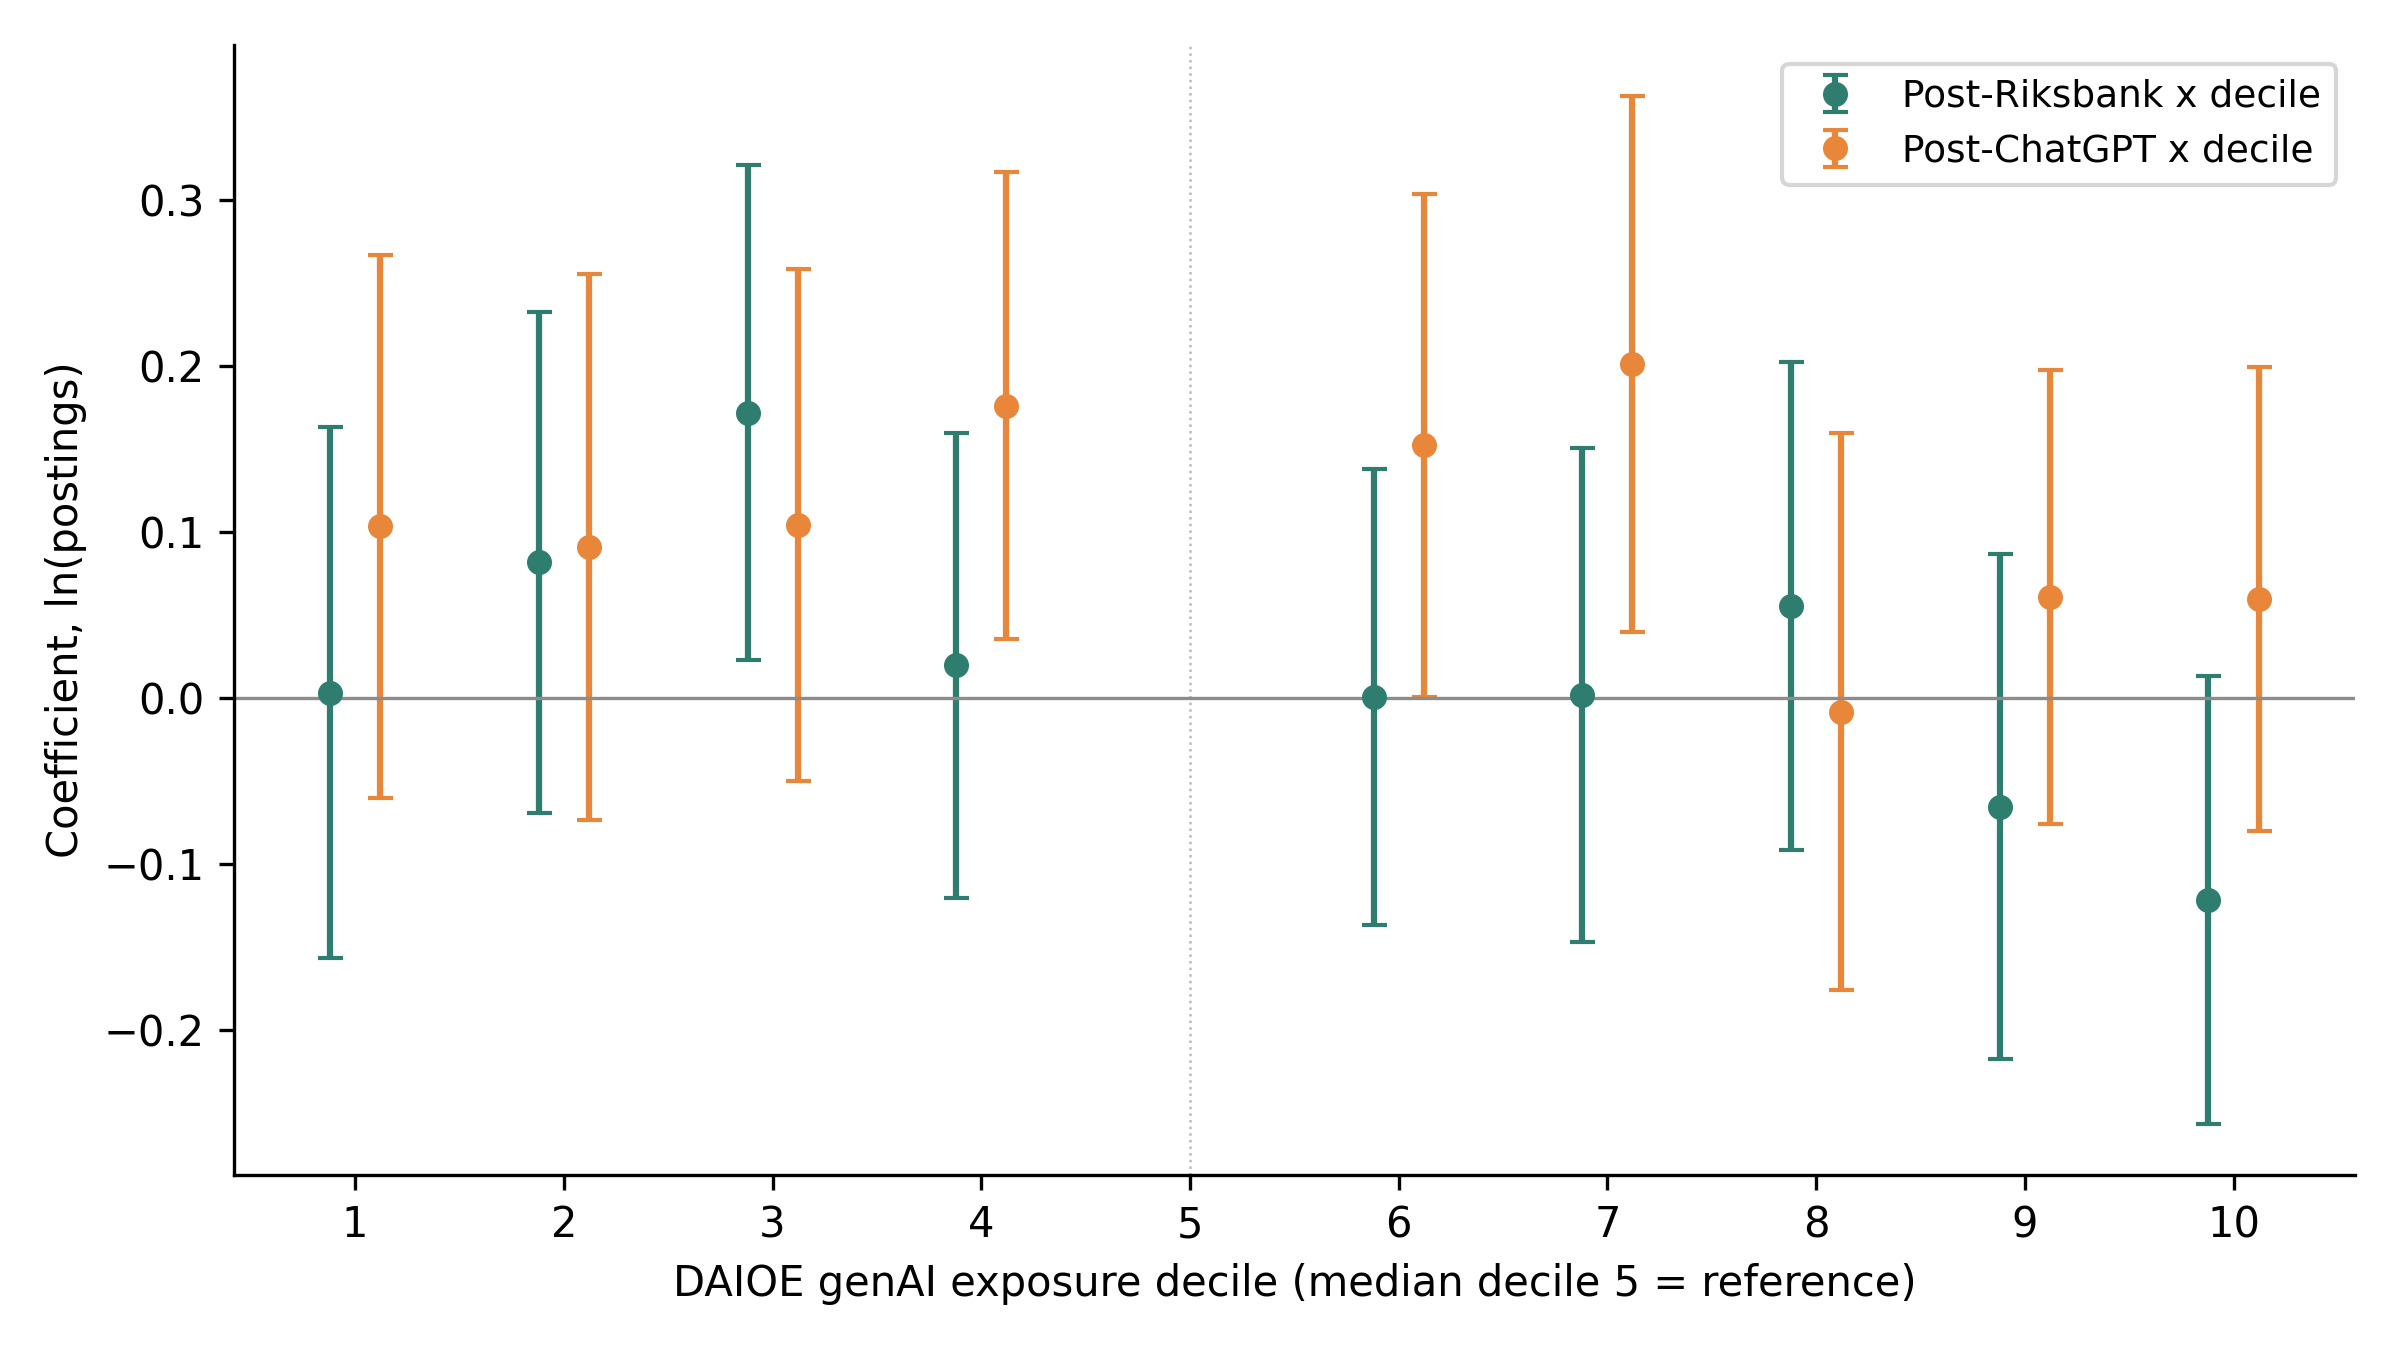
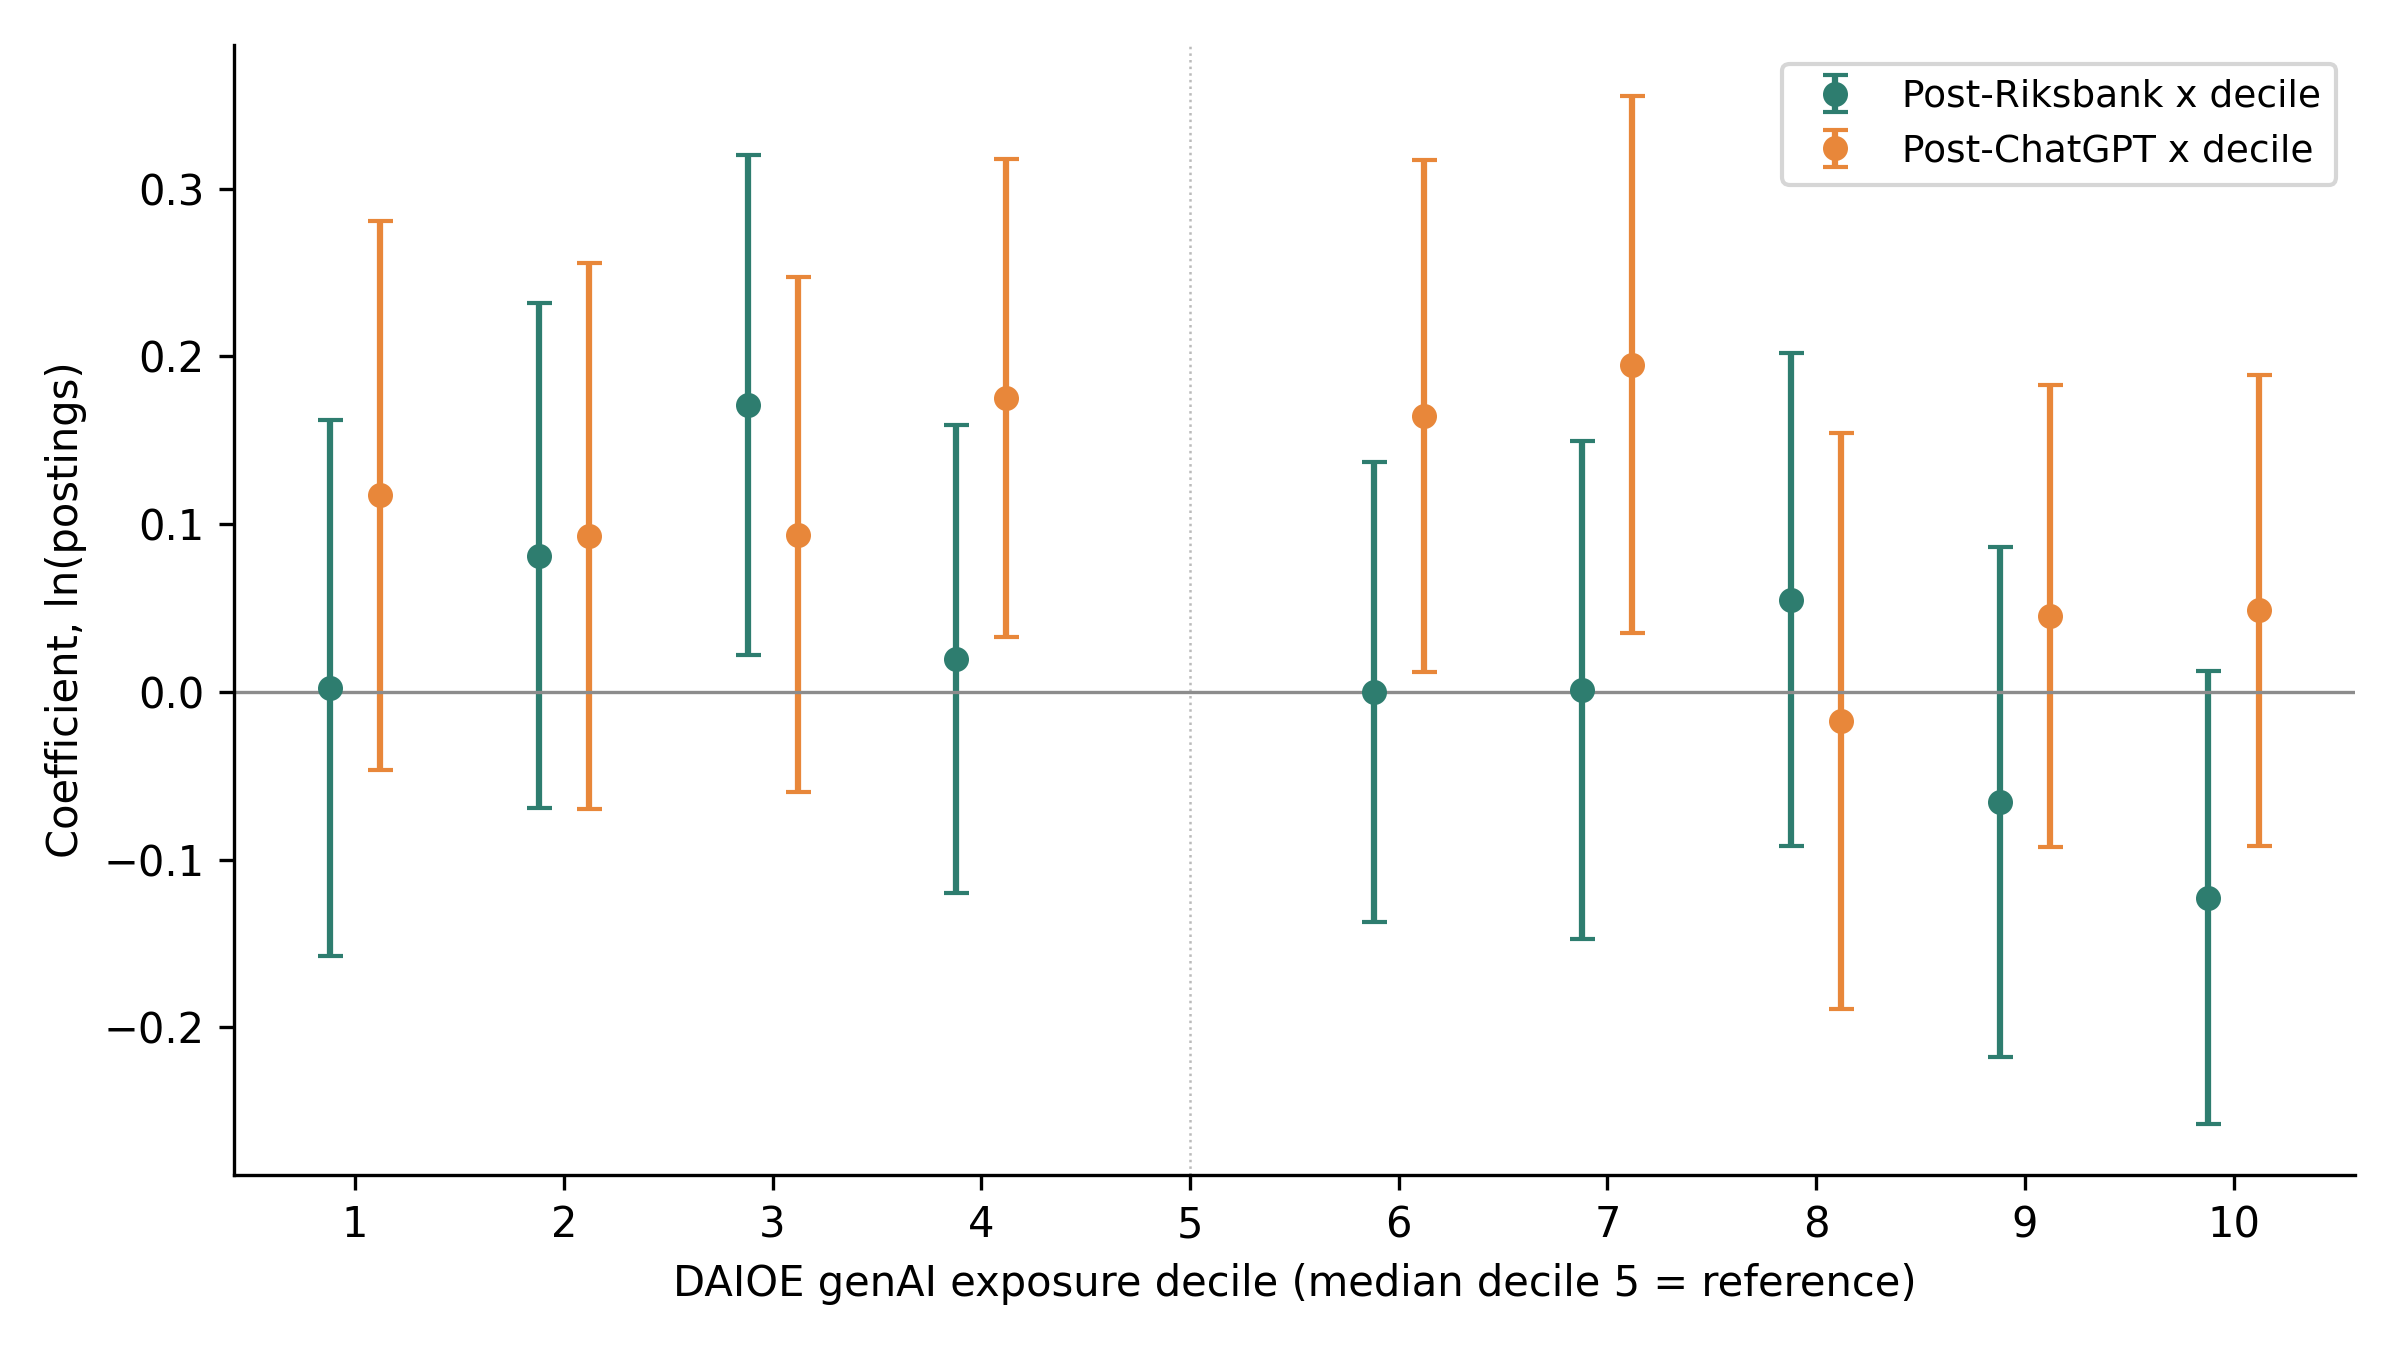
Every posting regression now runs to June 2026, not just the headline table
Only l08 used the extended window. l03, l05 and l06 were still cutting at
December 2025, because the merged panel they read stops at February 2026 and
its last two months are the JobStream artefact. So the paper was quoting a
seasonality check and a decile profile from a shorter window than its own
headline.

l08 now writes data/processed/postings_daioe_merged_extended.csv, 2020-01 to
2026-06, 28,084 occupation-months over 369 occupations (gitignored, like the
rest of data/processed, and rebuilt by running l08). config carries one
switch, POSTINGS_REGRESSION_END, that the three scripts read.

Nothing moves: OLS -0.127 and -0.059, Poisson -0.129 and -0.060, seasonality
shifts both coefficients by 0.003, and the decile profile stays non-monotone
with its peak in the seventh decile.

Claude-Session: https://claude.ai/code/session_01Ne4TL9xKpGBakALMCR9kK6

diff --git a/revision/local/l08_extend_2026.py b/revision/local/l08_extend_2026.py
@@ -106,6 +106,22 @@ def main():
                     ignore_index=True)
     ext.to_csv(OUT / "postings_ssyk4_monthly_extended.csv", index=False)
 
+    # The merged, exposure-tagged panel on the FULL window, so that every
+    # posting regression can run on the same months rather than only this
+    # script's. The old postings_daioe_merged.csv stops at February 2026 and
+    # its last two months are the JobStream artefact, which is why l03, l05
+    # and l06 were cutting at December 2025.
+    _d = pd.read_csv(_cfg.PROCESSED / "daioe_quartiles.csv",
+                     dtype={"ssyk4": str})
+    _d["ssyk4"] = _d["ssyk4"].str.zfill(4)
+    _merged = ext.merge(_d, on="ssyk4", how="inner")
+    _merged["high_exposure"] = (_merged["exposure_quartile"].astype(str)
+                                .str.startswith("Q4").astype(int))
+    _mp = _cfg.PROCESSED / "postings_daioe_merged_extended.csv"
+    _merged.to_csv(_mp, index=False)
+    print(f"  wrote {_mp.name}: {_merged['year_month'].min()} to "
+          f"{_merged['year_month'].max()}, {len(_merged):,} occupation-months")
+
     # --- extended DiD: OLS (submitted spec) + Poisson, both windows ------
     import pyfixest as pf
     daioe = pd.read_csv(_cfg.PROCESSED / "daioe_quartiles.csv",

diff --git a/revision/local/l03_decile_gradient_postings.py b/revision/local/l03_decile_gradient_postings.py
@@ -27,15 +27,17 @@ import matplotlib.pyplot as plt
 
 sys.path.insert(0, str(Path(__file__).resolve().parents[1]))
 from config import (PROCESSED, V2_TAB, V2_FIG, RIKSBANKEN_HIKE,
-                    CHATGPT_LAUNCH, ORANGE, TEAL, GRAY, DARK_TEXT)
+                    CHATGPT_LAUNCH, ORANGE, TEAL, GRAY, DARK_TEXT, POSTINGS_REGRESSION_END)
 
 
 def main():
     print("L3: posting decile gradient (R1.4)")
-    df = pd.read_csv(PROCESSED / "postings_daioe_merged.csv",
+    df = pd.read_csv(PROCESSED / ("postings_daioe_merged_extended.csv"
+                     if (PROCESSED / "postings_daioe_merged_extended.csv").exists()
+                     else "postings_daioe_merged.csv"),
                      dtype={"ssyk4": str})
     df["ssyk4"] = df["ssyk4"].str.zfill(4)
-    df = df[(df["year_month"] >= "2020-01") & (df["year_month"] <= "2025-12")]
+    df = df[(df["year_month"] >= "2020-01") & (df["year_month"] <= POSTINGS_REGRESSION_END)]
 
     # Unweighted deciles over occupations (same convention as the quartiles:
     # each SSYK4 counts once).

diff --git a/revision/local/l06_seasonality_variant.py b/revision/local/l06_seasonality_variant.py
@@ -28,17 +28,19 @@ import pandas as pd
 REV = Path(__file__).resolve().parents[1]
 sys.path.insert(0, str(REV))
 from config import (PROCESSED, V2_TAB, RIKSBANKEN_HIKE,  # noqa: E402
-                    CHATGPT_LAUNCH)
+                    CHATGPT_LAUNCH, POSTINGS_REGRESSION_END)
 
 
 def main():
     import pyfixest as pf
     print("L6: seasonality variants (R1.9)")
-    df = pd.read_csv(PROCESSED / "postings_daioe_merged.csv",
+    df = pd.read_csv(PROCESSED / ("postings_daioe_merged_extended.csv"
+                     if (PROCESSED / "postings_daioe_merged_extended.csv").exists()
+                     else "postings_daioe_merged.csv"),
                      dtype={"ssyk4": str})
     df["ssyk4"] = df["ssyk4"].str.zfill(4)
     df = df[(df["year_month"] >= "2020-01")
-            & (df["year_month"] <= "2025-12")].copy()
+            & (df["year_month"] <= POSTINGS_REGRESSION_END)].copy()
     df = df[df["n_ads"] > 0].copy()
     df["ln_ads"] = np.log(df["n_ads"])
     df["date"] = pd.to_datetime(df["year_month"] + "-01")

diff --git a/revision/local/l05_posting_estimators.py b/revision/local/l05_posting_estimators.py
@@ -27,15 +27,17 @@ import pandas as pd
 REV = Path(__file__).resolve().parents[1]
 sys.path.insert(0, str(REV))
 from config import (PROCESSED, V2_TAB, RIKSBANKEN_HIKE,  # noqa: E402
-                    CHATGPT_LAUNCH)
+                    CHATGPT_LAUNCH, POSTINGS_REGRESSION_END)
 
 
 def load_panel():
-    df = pd.read_csv(PROCESSED / "postings_daioe_merged.csv",
+    df = pd.read_csv(PROCESSED / ("postings_daioe_merged_extended.csv"
+                     if (PROCESSED / "postings_daioe_merged_extended.csv").exists()
+                     else "postings_daioe_merged.csv"),
                      dtype={"ssyk4": str})
     df["ssyk4"] = df["ssyk4"].str.zfill(4)
     df = df[(df["year_month"] >= "2020-01")
-            & (df["year_month"] <= "2025-12")].copy()
+            & (df["year_month"] <= POSTINGS_REGRESSION_END)].copy()
 
     # Balanced occupation x month panel with explicit zeros: Poisson wants
     # the zero cells the OLS-on-ln(n) spec had to drop.

diff --git a/revision/config.py b/revision/config.py
@@ -47,6 +47,12 @@ CHATGPT_LAUNCH  = "2022-12-01"
 # harvesting artefacts (see reference_canaries_postings_tail_artefact).
 POSTINGS_DESCRIPTIVE_END = "2025-12"
 
+# The last month the posting REGRESSIONS use. JobTech publishes closed
+# quarters, so this is the end of the newest one; run l12 to check whether a
+# newer quarter exists. Kept separate from the descriptive cut, which exists
+# for a different reason (the JobStream tail artefact).
+POSTINGS_REGRESSION_END = "2026-06"
+
 # -- Colours (as v1) ---------------------------------------------------------
 DARK_BLUE = "#1B3A5C"; ORANGE = "#E8873A"; TEAL = "#2E7D6F"
 GRAY = "#8C8C8C"; LIGHT_GRAY = "#C8C8C8"; DARK_TEXT = "#2C2C2C"
